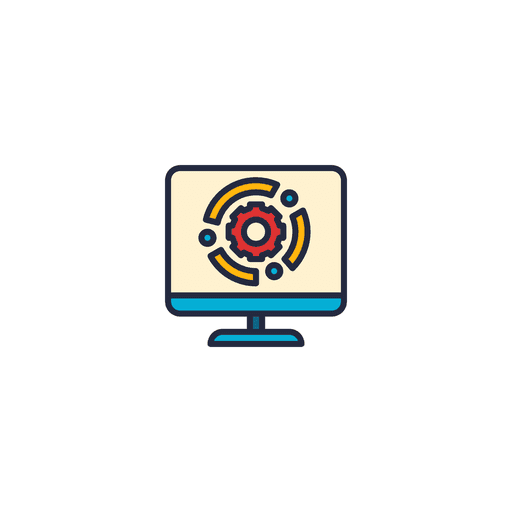
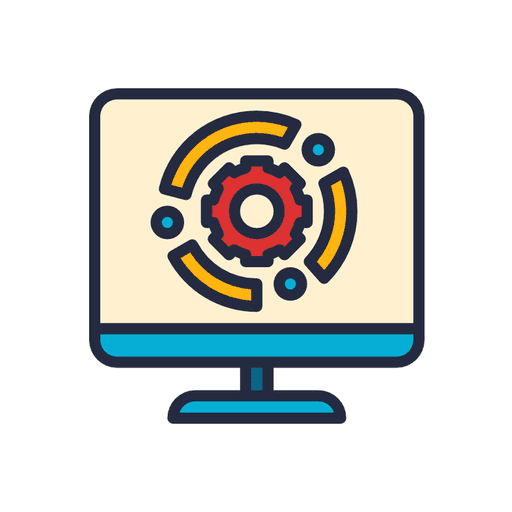
Updates

diff --git a/sw.js b/sw.js
@@ -1,1 +1,1 @@
-if(!self.define){let e,i={};const n=(n,s)=>(n=new URL(n+".js",s).href,i[n]||new Promise((i=>{if("document"in self){const e=document.createElement("script");e.src=n,e.onload=i,document.head.appendChild(e)}else e=n,importScripts(n),i()})).then((()=>{let e=i[n];if(!e)throw new Error(`Module ${n} didn’t register its module`);return e})));self.define=(s,r)=>{const o=e||("document"in self?document.currentScript.src:"")||location.href;if(i[o])return;let t={};const c=e=>n(e,o),f={module:{uri:o},exports:t,require:c};i[o]=Promise.all(s.map((e=>f[e]||c(e)))).then((e=>(r(...e),t)))}}define(["./workbox-5ffe50d4"],(function(e){"use strict";self.skipWaiting(),e.clientsClaim(),e.precacheAndRoute([{url:"assets/index-Cnh-Sh94.js",revision:null},{url:"assets/index-CpzDA4LO.css",revision:null},{url:"index.html",revision:"57b6093ef9b442d6068a156f9d05c786"},{url:"registerSW.js",revision:"a90d0b4e7626ffa98f5a5fcc4454c189"},{url:"favicon.ico",revision:"254f67d09199d0f7a7088cabe91b070e"},{url:"pwa-192x192.png",revision:"4dd6950b04ca76f0ceed31ff23578fbd"},{url:"pwa-512x512.png",revision:"b65c723fe372a13e2c98b01206c49029"},{url:"manifest.webmanifest",revision:"15888e9dbcc6b584899aa17e76f60c7d"}],{}),e.cleanupOutdatedCaches(),e.registerRoute(new e.NavigationRoute(e.createHandlerBoundToURL("index.html")))}));
+if(!self.define){let e,i={};const n=(n,s)=>(n=new URL(n+".js",s).href,i[n]||new Promise((i=>{if("document"in self){const e=document.createElement("script");e.src=n,e.onload=i,document.head.appendChild(e)}else e=n,importScripts(n),i()})).then((()=>{let e=i[n];if(!e)throw new Error(`Module ${n} didn’t register its module`);return e})));self.define=(s,r)=>{const o=e||("document"in self?document.currentScript.src:"")||location.href;if(i[o])return;let t={};const d=e=>n(e,o),f={module:{uri:o},exports:t,require:d};i[o]=Promise.all(s.map((e=>f[e]||d(e)))).then((e=>(r(...e),t)))}}define(["./workbox-5ffe50d4"],(function(e){"use strict";self.skipWaiting(),e.clientsClaim(),e.precacheAndRoute([{url:"assets/index-Cnh-Sh94.js",revision:null},{url:"assets/index-CpzDA4LO.css",revision:null},{url:"index.html",revision:"57b6093ef9b442d6068a156f9d05c786"},{url:"registerSW.js",revision:"a90d0b4e7626ffa98f5a5fcc4454c189"},{url:"favicon.ico",revision:"d97cfdf55ec10859e9b164aa89f14bae"},{url:"pwa-192x192.png",revision:"a065d78a86d416f13d63ad7df06deb7a"},{url:"pwa-512x512.png",revision:"9d4cc81e1409f28123780f0b72cfada9"},{url:"manifest.webmanifest",revision:"15888e9dbcc6b584899aa17e76f60c7d"}],{}),e.cleanupOutdatedCaches(),e.registerRoute(new e.NavigationRoute(e.createHandlerBoundToURL("index.html")))}));
